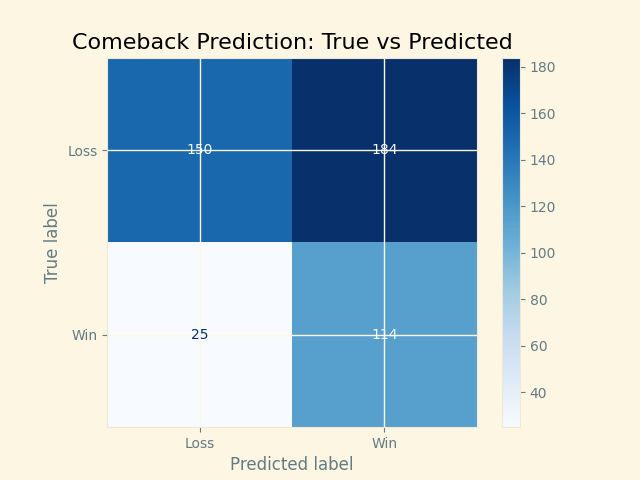
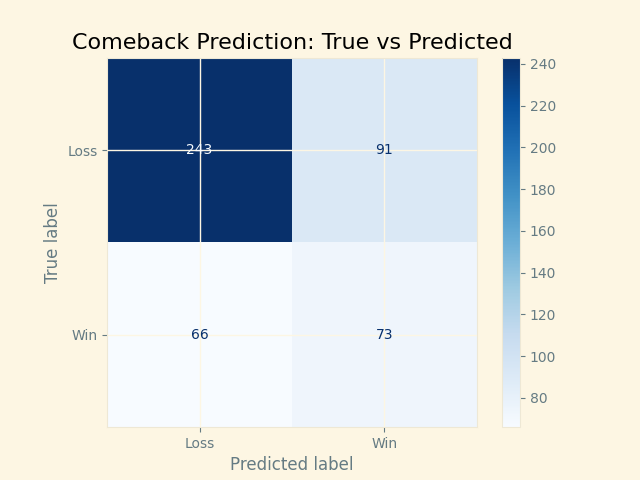
fixed data leakage and added more features

diff --git a/notebooks/data_exploration.py b/notebooks/data_exploration.py
@@ -10,24 +10,27 @@ from sklearn.ensemble import RandomForestClassifier
 from sklearn.metrics import accuracy_score, classification_report, confusion_matrix, ConfusionMatrixDisplay
 from sklearn.calibration import CalibratedClassifierCV
 from sklearn.metrics import recall_score, precision_score, f1_score
-from sklearn.model_selection import RandomizedSearchCV
+from sklearn.model_selection import GroupKFold, RandomizedSearchCV
 
 import lightgbm as lgb
 from lightgbm import LGBMClassifier
+from sklearn import set_config
+set_config(enable_metadata_routing=True)
 
 
 plt.style.use('Solarize_Light2')
 ssl._create_default_https_context = ssl._create_unverified_context
 
 def load_comeback_data(years=list(range(2015,2025))):
-    cache_file = "nfl_pbp_cache.csv"
+    years_key = "-".join(map(str, sorted(years)))
+    cache_file = f"nfl_pbp_cache_{years_key}.csv"
     
     columns = [
-        'game_id', 'season', 'home_team', 'away_team', 'posteam', 'defteam',
-        'qtr', 'game_seconds_remaining', 'score_differential',
-        'yardline_100', 'down', 'ydstogo',
+        'game_id','qtr', 'home_team', 'away_team', 'posteam', 'defteam','game_seconds_remaining', 'score_differential',
+        'yardline_100', 'down', 'ydstogo', 'temp', 'goal_to_go',
         'posteam_timeouts_remaining', 'defteam_timeouts_remaining',
-         'epa', 'wind', 'kick_distance', 'temp', 'goal_to_go', 'result'
+         'epa', 'wind', 'kick_distance', 'qb_epa', 'posteam_score', 'defteam_score', 'total_home_comp_air_epa', 'total_away_comp_air_epa',
+         'div_game', 'result'
     ]
 
     def _download_and_cache_full_pbp():
@@ -61,6 +64,8 @@ def load_comeback_data(years=list(range(2015,2025))):
 
     pbp = add_epa(pbp)
     pbp = add_home_team(pbp)
+    pbp = add_qb_epa(pbp)
+
     df = pbp[pbp['qtr'] >= 4].copy()
 
     def determine_win(row):
@@ -110,6 +115,19 @@ def add_epa(df):
         0.0
     )
     return df
+def add_qb_epa(df):
+    df = df.sort_values(['game_id', 'game_seconds_remaining'], ascending=[True, False], kind='mergesort').copy()
+
+    off_group = df.groupby(['game_id', 'posteam'])['qb_epa']
+    off_cumsum = off_group.cumsum()
+    off_count_prior = off_group.cumcount()
+    df['qb_epa_prior'] = np.where(
+        off_count_prior > 0,
+        (off_cumsum - df['qb_epa']) / off_count_prior,
+        0.0
+    )
+
+    return df
 
 def add_home_team(df):
     df['is_home'] = (df['posteam'] == df['home_team']).astype(int)
@@ -136,21 +154,24 @@ def prep_train_data(df):
     train_df = df[df['game_id'].isin(train_games)].copy()
     test_df = df[df['game_id'].isin(test_games)].copy()
     val_df   = df[df["game_id"].isin(val_games)].copy()
+    train_games = train_df['game_id'].copy()
 
     string_columns = train_df.select_dtypes(include=['object']).columns
     train_df = train_df.drop(columns = string_columns)
     test_df = test_df.drop(columns = string_columns)
     val_df = val_df.drop(columns = string_columns)
-    X_train = train_df.drop(columns = ['won_game', 'result', 'epa']).fillna(0)
+    X_train = train_df.drop(columns = ['won_game', 'result', 'epa', 'qb_epa']).fillna(0)
     y_train = train_df['won_game']
-    X_test = test_df.drop(columns = ['won_game', 'result', 'epa']).fillna(0)
+    X_test = test_df.drop(columns = ['won_game', 'result', 'epa', 'qb_epa']).fillna(0)
     y_test = test_df['won_game']
-    X_val = val_df.drop(columns = ['won_game', 'result', 'epa']).fillna(0)
+    X_val = val_df.drop(columns = ['won_game', 'result', 'epa', 'qb_epa']).fillna(0)
     y_val = val_df["won_game"]
-    
-    return X_train, X_test, y_train, y_test, X_val, y_val
 
-def train_rf_model(X_train, X_test, y_train, y_test, X_val, y_val):
+    
+    
+    return X_train, X_test, y_train, y_test, X_val, y_val, train_games
+
+def train_rf_model(X_train, X_test, y_train, y_test, X_val, y_val, train_groups):
     rf_base = RandomForestClassifier(
         random_state=42
     )
@@ -162,23 +183,24 @@ def train_rf_model(X_train, X_test, y_train, y_test, X_val, y_val):
         "max_features": ["sqrt", "log2", 0.5, 0.7],
         "class_weight": [None, "balanced", "balanced_subsample"]
     }
+    gkf = GroupKFold(n_splits=5)
     search = RandomizedSearchCV(
         estimator = rf_base,
         param_distributions= search_space,
         n_iter = 40,
         scoring = 'f1',
-        cv = 5,
+        cv = gkf,
         random_state=42,
         n_jobs = 1,
         verbose = 1
     )
-    search.fit(X_train, y_train)
+    search.fit(X_train, y_train, groups=train_groups)
     print("Best CV F1:", search.best_score_)
     print("Best Params:", search.best_params_)
 
     best_rf = search.best_estimator_
-    calibrated_rf = CalibratedClassifierCV(best_rf, method='sigmoid', cv=5)
-    calibrated_rf.fit(X_train, y_train)
+    calibrated_rf = CalibratedClassifierCV(best_rf, method='sigmoid', cv=gkf)
+    calibrated_rf.fit(X_train, y_train, groups=train_groups)
     
     val_probs = calibrated_rf.predict_proba(X_val)[:,1]
     thresholds = np.arange(0.05, 0.98, 0.02)
@@ -208,7 +230,7 @@ def train_rf_model(X_train, X_test, y_train, y_test, X_val, y_val):
     print(classification_report(y_test, predictions))
     return calibrated_rf, best_t
 
-def train_lightgbm_model(X_train, X_test, y_train, y_test, X_val, y_val):
+def train_lightgbm_model(X_train, X_test, y_train, y_test, X_val, y_val, train_groups):
 
     lightgbm_base = LGBMClassifier(objective = 'binary', random_state=42, verbose = -1)
     rs_params={
@@ -220,22 +242,25 @@ def train_lightgbm_model(X_train, X_test, y_train, y_test, X_val, y_val):
         "colsample_bytree": [0.6, 0.8, 1.0],   
         "min_child_samples": [10, 20, 40]
     }
+    gkf = GroupKFold(n_splits=5)
     search = RandomizedSearchCV(
         estimator = lightgbm_base,
         param_distributions= rs_params,
         n_iter = 40,
         scoring = 'f1',
-        cv = 5,
+        cv = gkf,
         random_state=42,
         n_jobs = 1,
         verbose = 1
     )
-    search.fit(X_train, y_train)
+    search.fit(X_train, y_train, groups = train_groups)
     print("Best CV F1:", search.best_score_)
     print("Best Params:", search.best_params_)
     best_lgbm = search.best_estimator_
-    calibrated_rf = CalibratedClassifierCV(best_lgbm, method='sigmoid', cv=5)
-    calibrated_rf.fit(X_train, y_train)
+
+    
+    calibrated_rf = CalibratedClassifierCV(best_lgbm, method='sigmoid', cv=gkf)
+    calibrated_rf.fit(X_train, y_train, groups = train_groups)
 
     val_probs = calibrated_rf.predict_proba(X_val)[:,1]
     thresholds = np.arange(0.05, 0.98, 0.02)
@@ -315,8 +340,8 @@ def plot_smart_importance(calibrated_model, X_train):
 df = load_comeback_data()
 plot_win_probability_groups(df)
 
-X_train, X_test, y_train, y_test, X_val, y_val = prep_train_data(df)
-calibrated_rf, best_t = train_lightgbm_model(X_train, X_test, y_train, y_test, X_val, y_val)
+X_train, X_test, y_train, y_test, X_val, y_val, train_groups = prep_train_data(df)
+calibrated_lgbm, best_t = train_lightgbm_model(X_train, X_test, y_train, y_test, X_val, y_val, train_groups)
 
-plot_confusion_matrix(calibrated_rf, X_test, y_test, best_t)
-plot_smart_importance(calibrated_rf, X_train)
+plot_confusion_matrix(calibrated_lgbm, X_test, y_test, best_t)
+plot_smart_importance(calibrated_lgbm, X_train)
